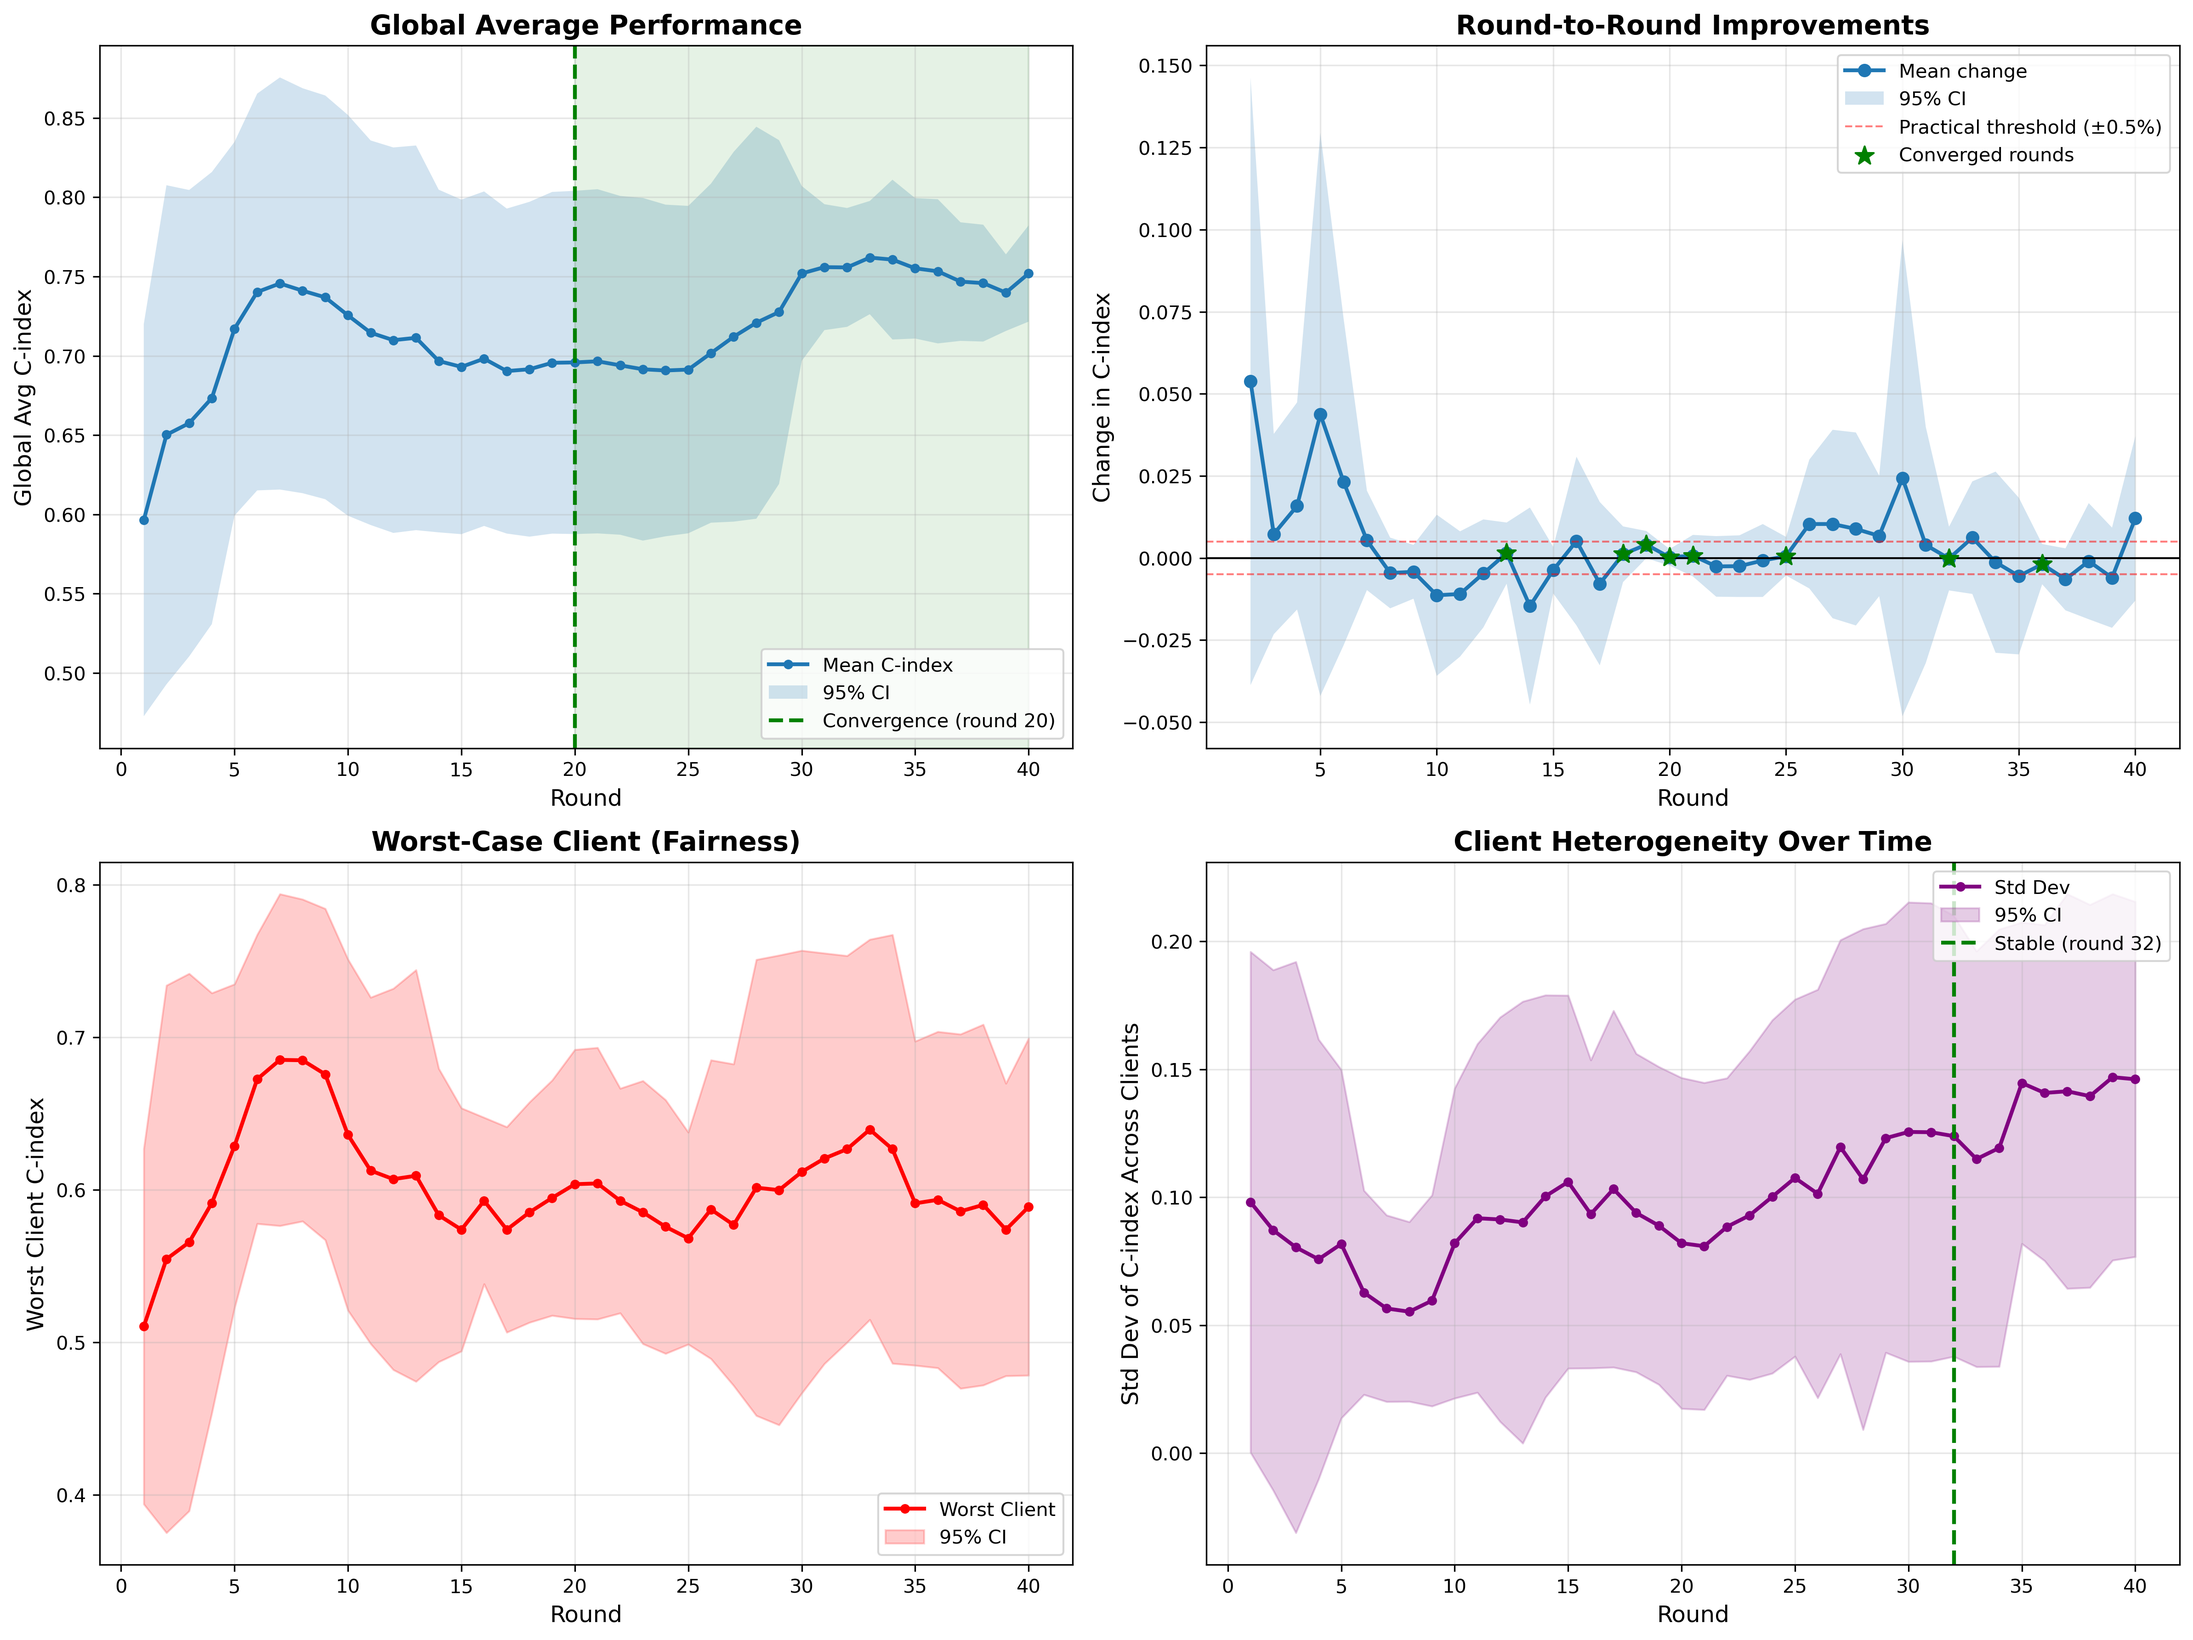
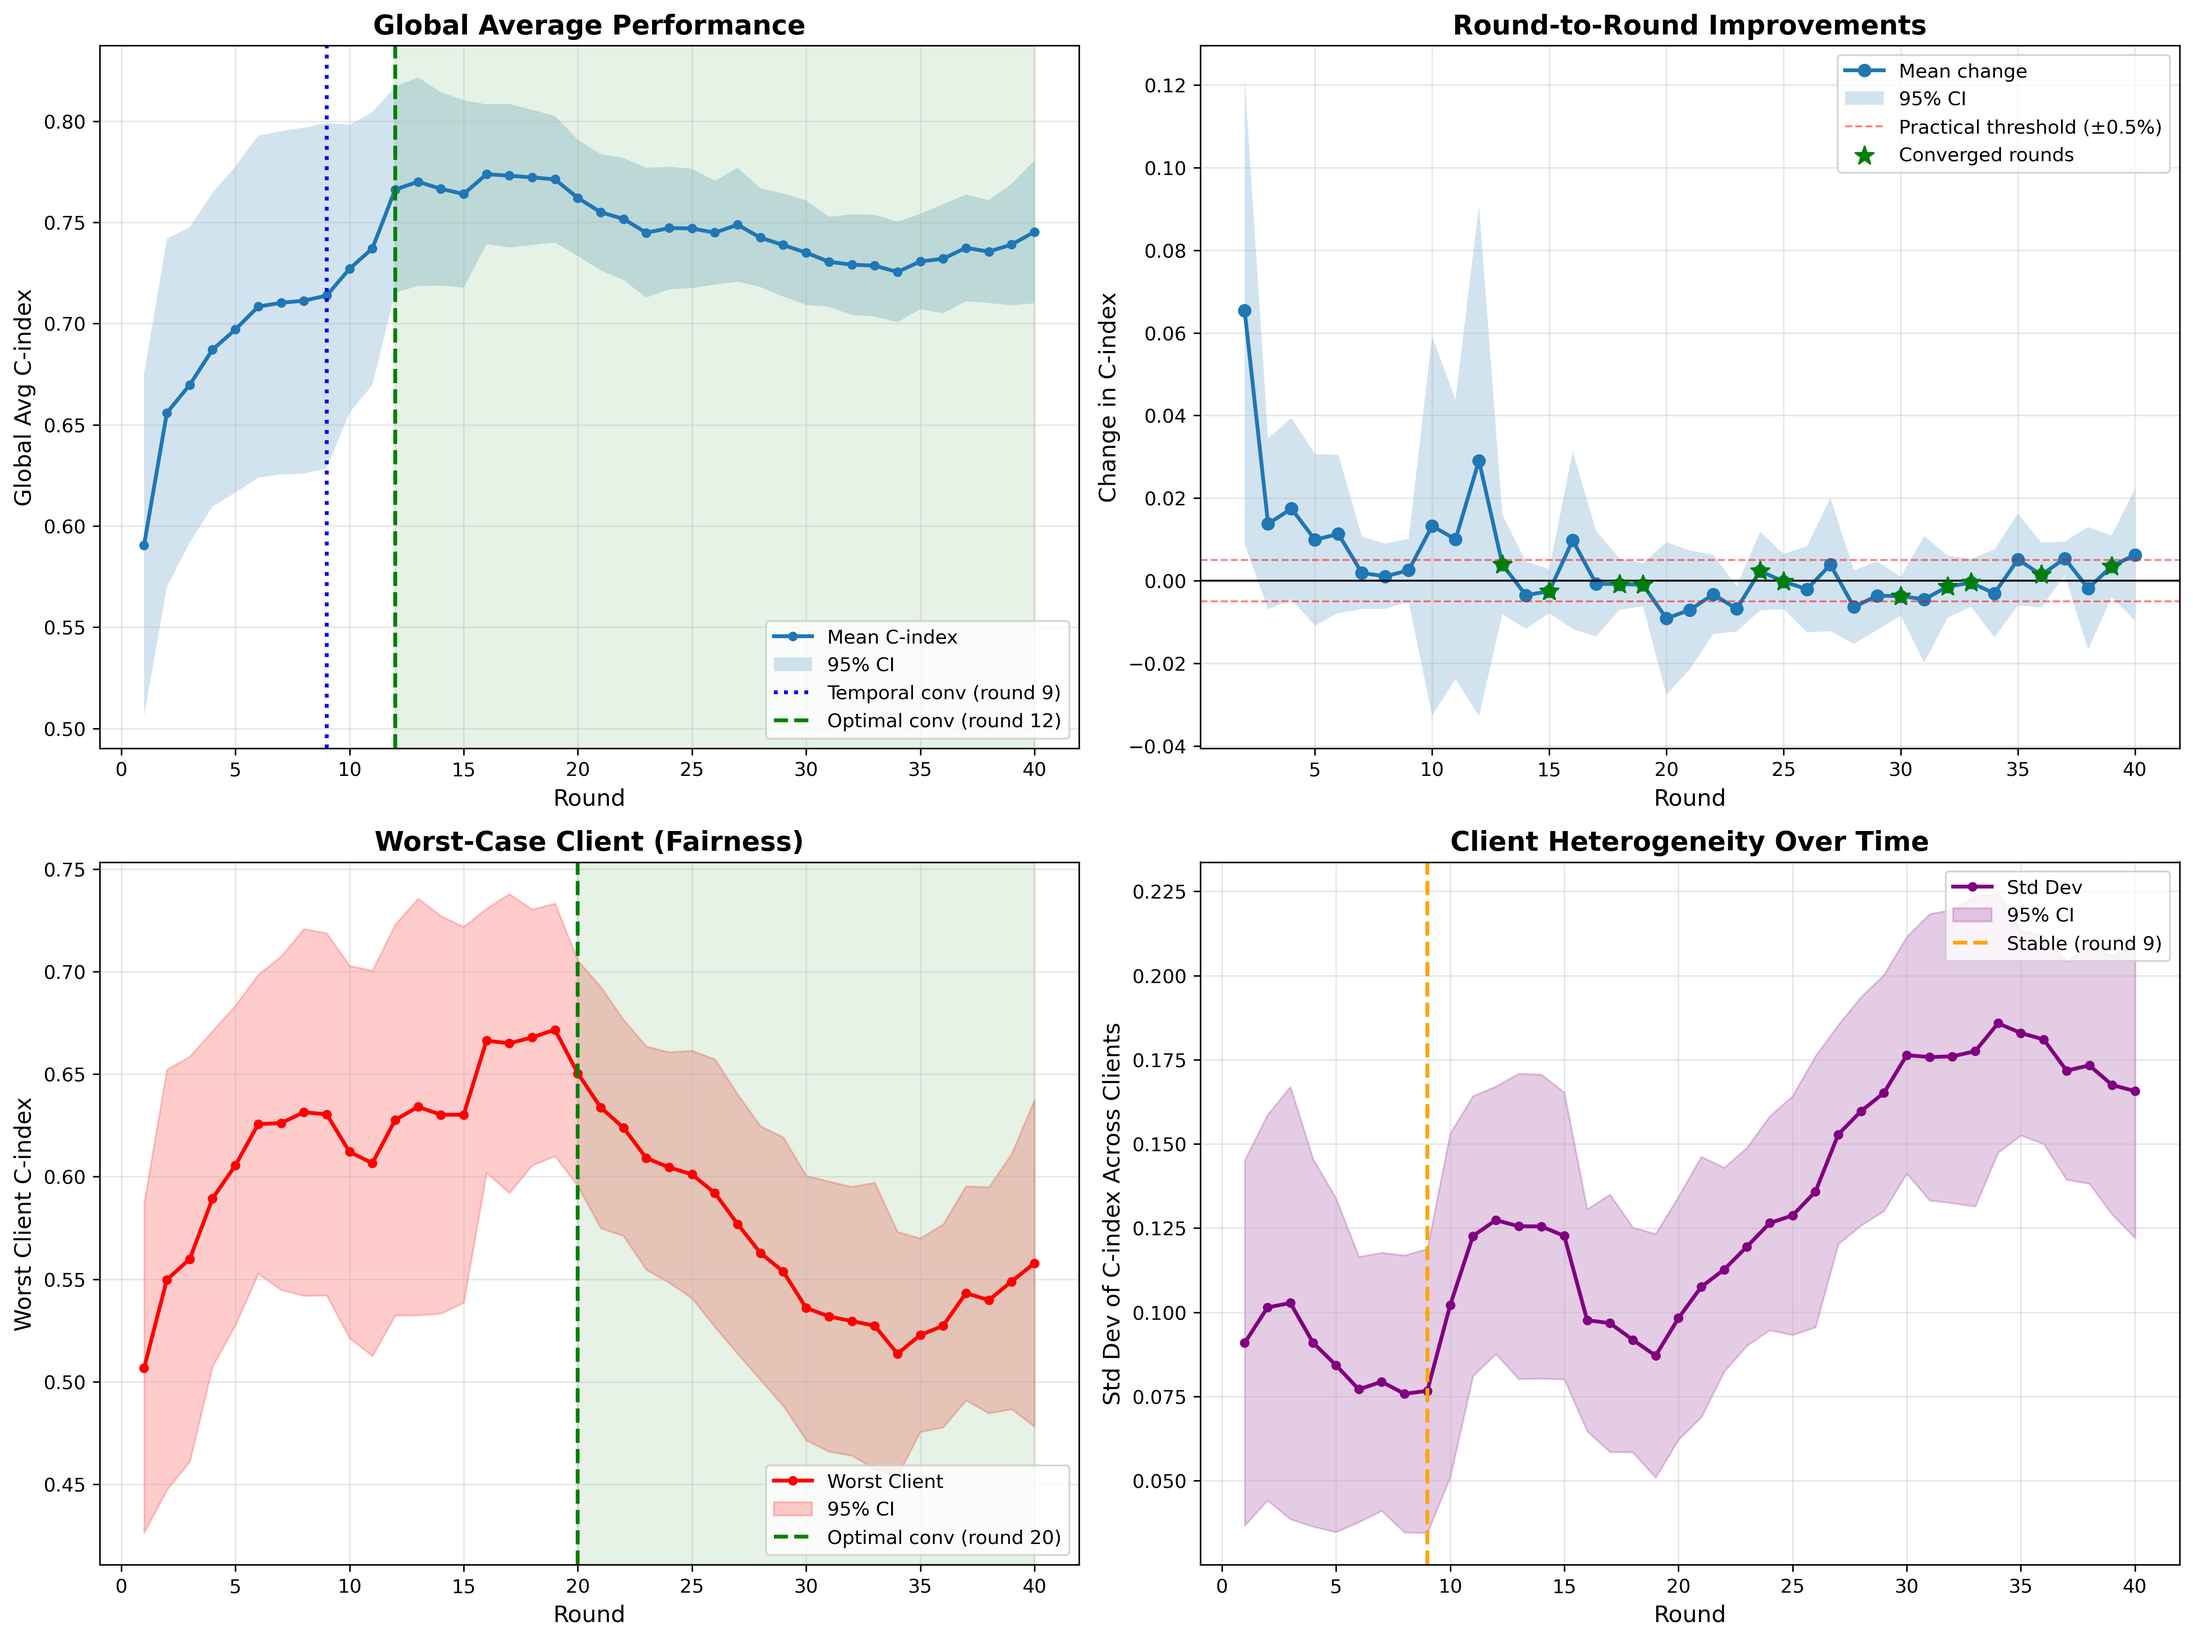
changes on parameters remote

diff --git a/src/config.py b/src/config.py
@@ -25,11 +25,13 @@ class Config:
     num_clients: int = 3  # Number of participating centers/clients (max 6) - has to be the same  as the length of centers list
     strategy: str = "FedAvg"  # Options: "FedAvg", "FedProx", "FedAdam", "FedSurvForest", etc. Used for DeepSurv and RSF federated strategies.
     num_rounds: int = 2
-    num_epochs: int = 2
-    batch_size: int = 32  # Larger batches for stability (was 16)
-    num_time_bins: int = 100
+    num_epochs: int = 30
+    #batch_size: int = 32  # Larger batches for stability (was 16)
+    batch_size: int = 8
+    #num_time_bins: int = 100
     strategy: str = "FedAvg"
-    lr: float = 0.0005  # Reduced from 0.001 for more stable training
+    #lr: float = 0.0005  # Reduced from 0.001 for more stable training
+    lr: float = 0.1
     
     # Data parameters:
     centers: list = field(default_factory=lambda: [0, 1, 2, 3, 4, 5])

diff --git a/src/main.py b/src/main.py
@@ -464,15 +464,15 @@ def main(config: Config):
 
 if __name__ == "__main__":
     # FEDERATED DEEPSURV TRAINING (Local Risk Set Approximation):
-    user_config = Config(
-        model="DeepSurv",
-        centers=[0, 1, 2],
-        training_mode="federated",
-        num_clients=3,
-        num_rounds=40,
-        num_epochs=50,  # Local epochs per round
-        strategy="FedAdam"  # FedAdam, FedProx and FedAvg available for DeepSurv
-    )
+    # user_config = Config(
+    #     model="DeepSurv",
+    #     centers=[0, 1, 2],
+    #     training_mode="federated",
+    #     num_clients=3,
+    #     num_rounds=40,
+    #     num_epochs=30,  # Local epochs per round
+    #     strategy="FedAvg"  # FedAdam, FedProx and FedAvg available for DeepSurv
+    # )
 
     # FEDERATED RSF TRAINING:
     # user_config = Config(

diff --git a/Exps_runs_randomness/aggregate_randomness_results_DeepSurv.py b/Exps_runs_randomness/aggregate_randomness_results_DeepSurv.py
@@ -32,7 +32,7 @@ print("Loaded rows (all rounds):", len(df_all))
 # ---------------------------------------------------------
 # FILTER ONLY ROUND 10
 # ---------------------------------------------------------
-df_all = df_all[df_all["round"] == 20]
+df_all = df_all[df_all["round"] == 32]
 
 print("Rows after filtering round == 10:", len(df_all))
 print(df_all.head(), "\n")
